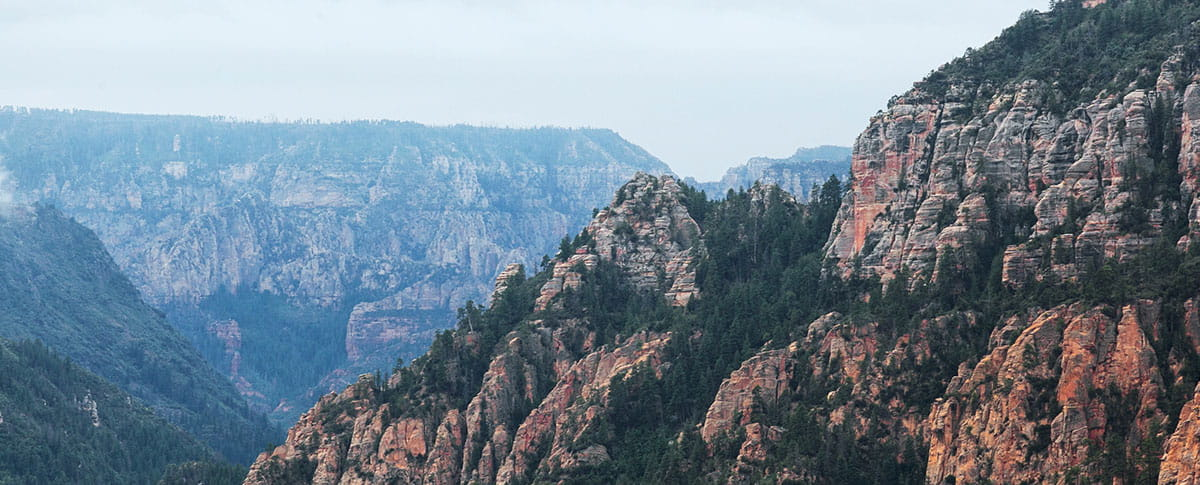
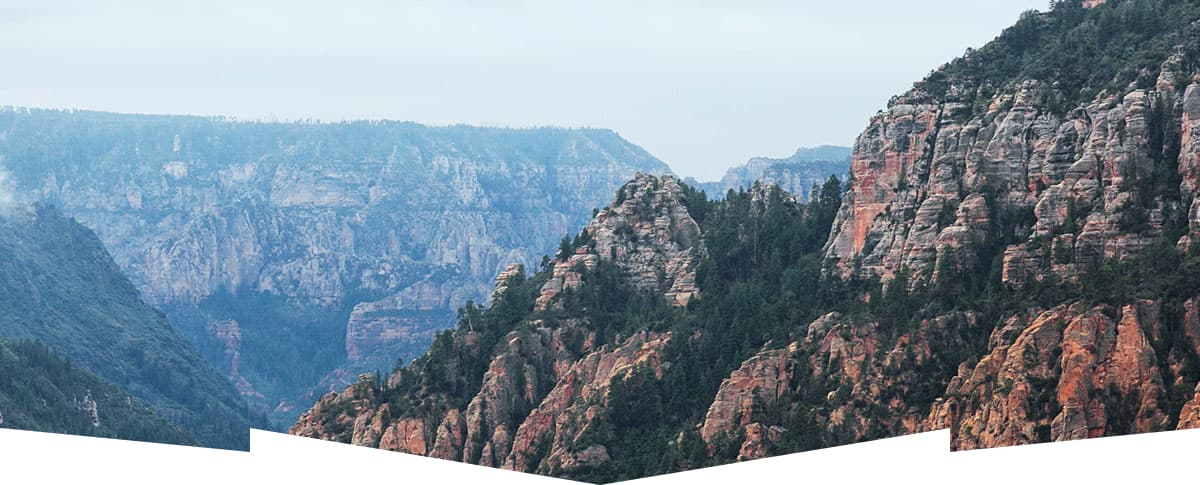
добавил фоновое изображение на подписку

Changed region(s): [[0.0, 0.866, 1.0, 1.0]]

diff --git a/index.html b/index.html
@@ -46,8 +46,8 @@
 
     <main class="index_main">
       <h1 class="visually_hidden">Сайт по поиску Гостиницы в Седона</h1>
-      <img src="images/index-background.jpg" alt="Вид на горы Седоны">
-      <img src="/images/Icons/welcome.svg" alt="Добро пожаловать в штат Джорджия">
+      <img src="images/index_background.jpg" width="1200" height="485" alt="Вид на горы Седоны">
+      <img src="images/Icons/welcome.svg" alt="Добро пожаловать в штат Джорджия">
 
       <section class="advantages">
         <h2 class="visually_hidden">Преимущества</h2>
@@ -144,6 +144,7 @@
 
       <section class="subscribe">
         <div class="subscribe_item">
+          <img src="images/Subscribe_background.jpg" width="1200" height="412" alt="размытое изображение гор">
           <h2 class="subscribe_title">Подпишитесь на рассылку</h2>
           <p class="subscribe_text">Только полезная информация и никакого спама, честное бойскаутское!</p>
           <form class="subscribe_form" action="https://echo.htmlacademy.ru/" method="post">
